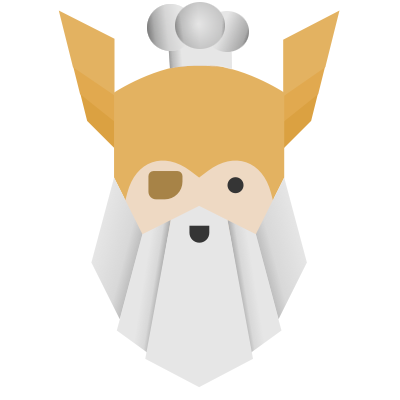
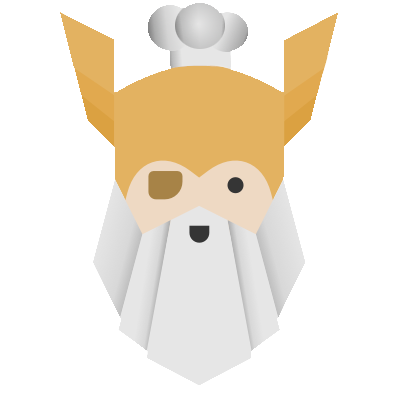
Add some CSS in the recipes pages

diff --git a/css/recipestyle.css b/css/recipestyle.css
@@ -1,0 +1,26 @@
+body {
+    background-color: rgba(0, 0, 0, 0.01);
+    color: #232323;
+    font-family: sans-serif;
+    font-size: 16px;
+}
+
+h1 {
+    font-family: fantasy;
+    font-size: 64px;
+    text-align: center;
+}
+
+strong {
+    color: #6519FF;
+}
+
+em {
+    color: #6519FF;
+}
+
+img {
+    height: auto;
+    width: 500px;
+    border-radius: 4%;
+}

diff --git a/index.html b/index.html
@@ -10,7 +10,7 @@
 <body>
   <h1>Odin Recipes</h1>
 
-  <img src="./img/odinchef.png" alt="The Odin-Project mascot logo wearing a chef hat">
+  <img src="./img/odinchef.png" alt="The Odin-Project mascot logo wearing a chef hat" class="logo">
         
   <h2>Traditional Brazilian Recipes</h2>
   <ul lang="pt-BR">

diff --git a/css/style.css b/css/style.css
@@ -1,0 +1,23 @@
+body {
+  background-color: rgba(0, 0, 0, 0.01);
+  color: #232323;
+  font-family: sans-serif;
+  font-size: 16px;
+}
+
+h1 {
+  text-align: center;
+}
+
+strong {
+  color: #6519FF;
+}
+
+em {
+  color: #6519FF
+}
+
+.logo {
+  height: auto;
+  width: 80px;
+}

diff --git a/recipes/paodequeijo.html b/recipes/paodequeijo.html
@@ -3,6 +3,7 @@
 
 <head>
   <meta charset="UTF-8">
+  <link rel="stylesheet" href="../css/recipestyle.css">
   <title lang="pt-BR">Pão de Queijo</title>
 </head>
 

diff --git a/recipes/caipirinha.html b/recipes/caipirinha.html
@@ -3,6 +3,7 @@
   
 <head>
   <meta charset="UTF-8">
+  <link rel="stylesheet" href="../css/recipestyle.css">
   <title lang="pt-BR">Caipirinha</title>
 </head>
 

diff --git a/recipes/feijoada.html b/recipes/feijoada.html
@@ -3,6 +3,7 @@
 
 <head>
   <meta charset="UTF-8">
+  <link rel="stylesheet" href="../css/recipestyle.css">
   <title lang="pt-BR">Feijoada</title>
 </head>
 

diff --git a/recipes/coxinha.html b/recipes/coxinha.html
@@ -3,6 +3,7 @@
 
 <head>
   <meta charset="UTF-8">
+  <link rel="stylesheet" href="../css/recipestyle.css">
   <title lang="pt-BR">Coxinha</title>
 </head>
 
